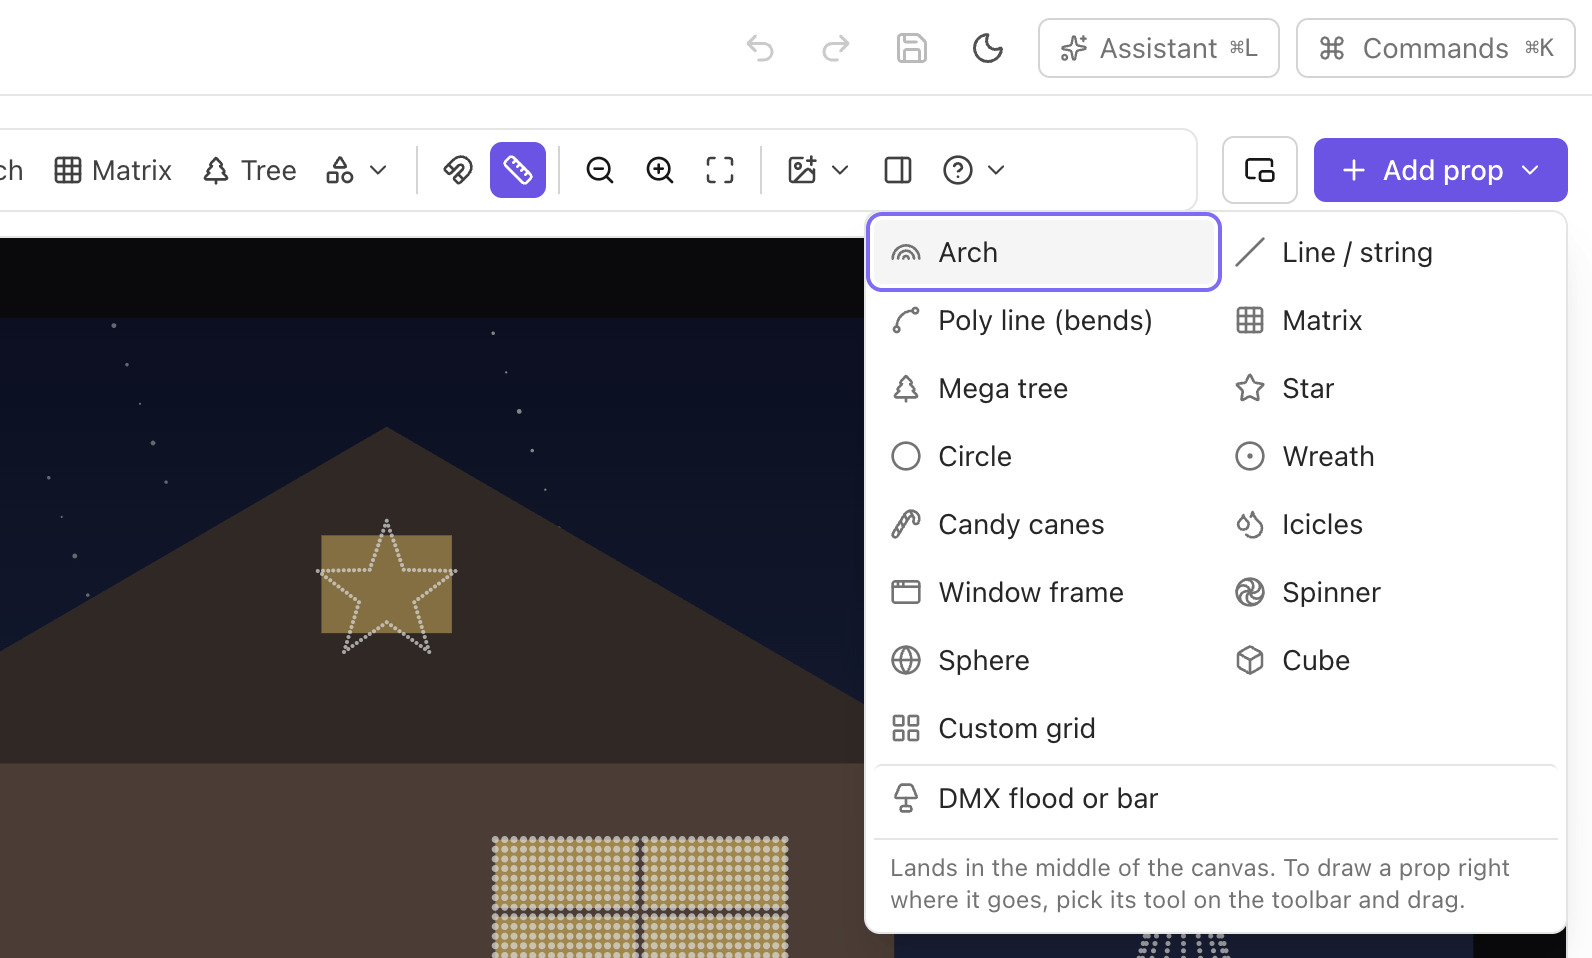
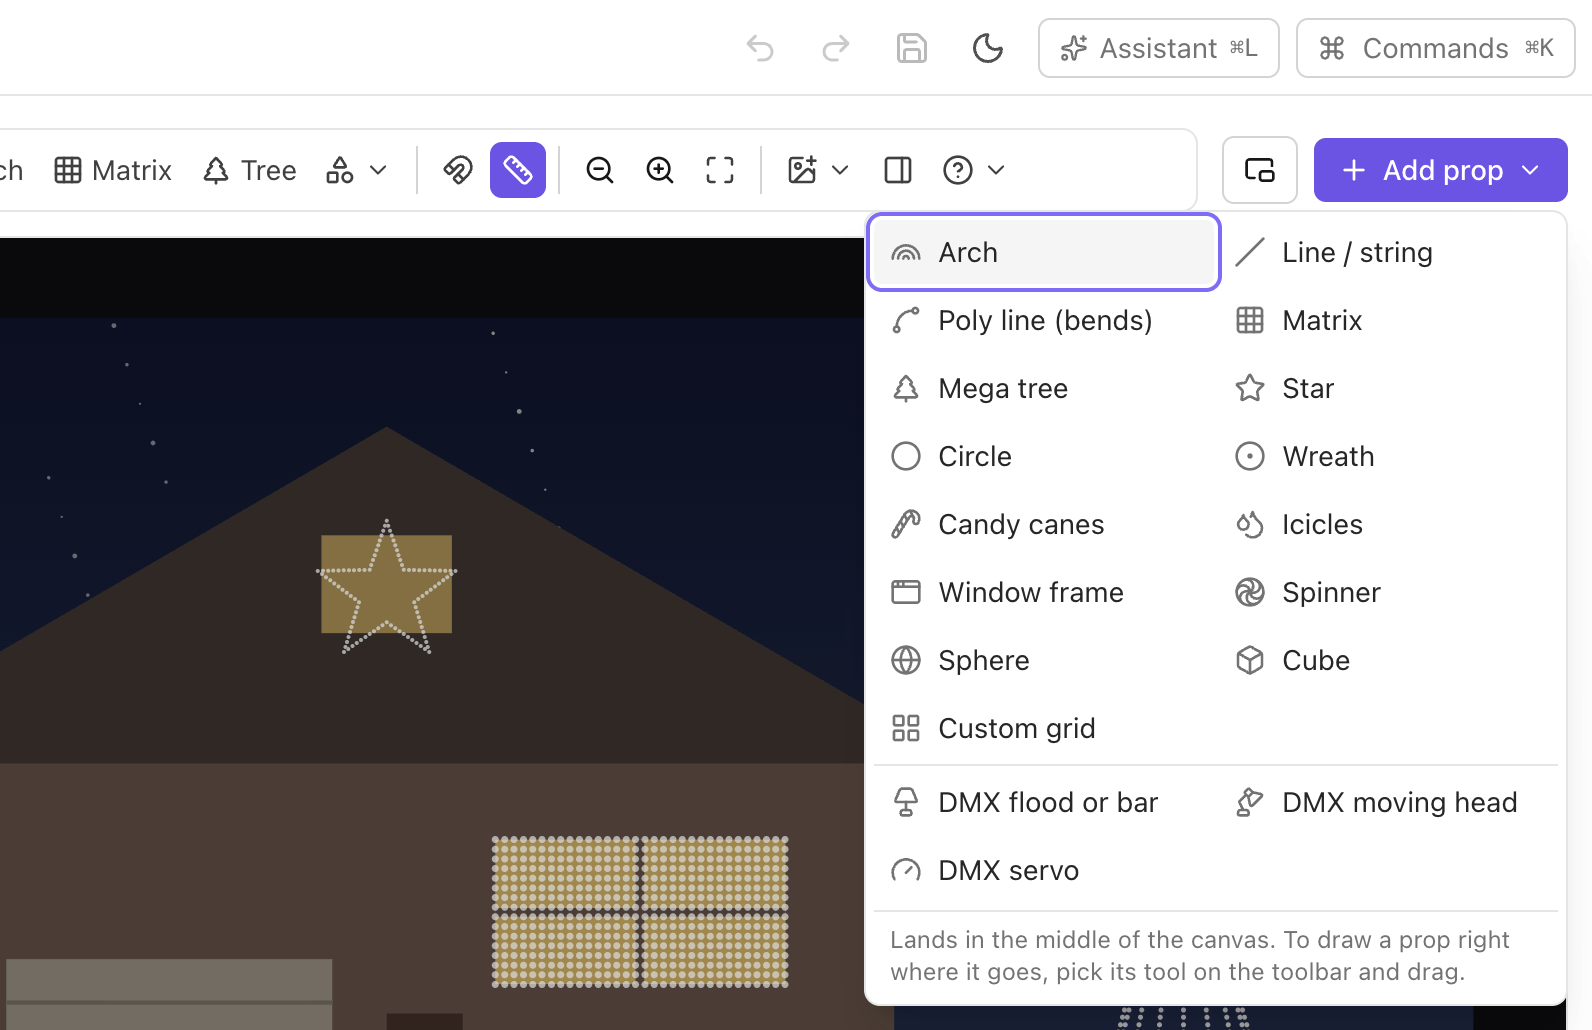
docs: moving heads and servos, from Layout to Test, previews and import
The DMX guide covers adding and setting up a moving head and servos,
pointing a head with the DMX effect, the beams and arms in the
previews, Test's pan and tilt and Home, what an xLights show's heads,
servos and skulls become, and that stopping never swings a head. The
threat model says what black keeps and the new limits; the Assistant's
DMX guide knows the effect points heads. New screenshots of each, and
the Add prop menu again with its two new kinds.

diff --git a/docs/dmx.md b/docs/dmx.md
@@ -1,14 +1,16 @@
-# DMX floods, pars, and bars
+# DMX floods, pars, bars, moving heads, and servos
 
 PixelFlow drives DMX fixtures alongside your pixels: RGB, RGBW, RGBA and RGBWA floods and pars,
-usually with a master dimmer and often a strobe, and bars of several separately colored cells.
-You color them with the same effects as any prop, and PixelFlow turns that color into the
-fixture's channels.
+usually with a master dimmer and often a strobe, bars of several separately colored cells,
+moving heads that pan and tilt, and servos. You color them with the same effects as any prop, and
+PixelFlow turns that color into the fixture's channels; the DMX effect points a head or turns a
+servo.
 
 > **Safety first.** A DMX universe can drive things that flash or move: a strobe channel is a real
-> strobe, a macro channel can start a light show of its own, and the same universe can carry a
-> moving head or a fog machine. Before you send anything, know what is on each address of the
-> universe, and read each fixture's manual for what its channels do. Keep strobes short.
+> strobe, a macro channel can start a light show of its own, a moving head swings round, and the
+> same universe can carry a fog machine. Before you send anything, know what is on each address of
+> the universe, read each fixture's manual for what its channels do, and keep people and things
+> out of a head's reach. Keep strobes short.
 
 ## Adding a fixture
 
@@ -16,7 +18,7 @@ fixture's channels.
    canvas; drag it to where the light is (a flood on the lawn washing the house front, a par at
    the foot of a tree).
 
-   ![The Add prop menu open, with DMX flood or bar at the foot of it, under the shapes.](images/layout-add-prop.png)
+   ![The Add prop menu open, with DMX flood or bar, DMX moving head, and DMX servo at the foot of it, under the shapes.](images/layout-add-prop.png)
 2. In its properties, under **DMX fixture**:
    - **Channels**: pick the layout from the fixture's manual. The library covers the common ones,
      named by their channels: 3 channels (red, green, blue), 4 (dimmer, red, green, blue), 4 (red,
@@ -25,10 +27,11 @@ fixture's channels.
    - **Start address**: the address set on the fixture (its DIP switches or menu), 1 to 512.
    - **Cells**, for a bar: how many separately colored sections it has.
    - **Each channel**: for a fixture the library doesn't have, set each channel's name and what it
-     does: dimmer, red, green, blue, white, amber, UV, strobe, mode (a value held), and the
-     moving-head roles (pan, tilt, their fine channels, color wheel, gobo), which hold their value
-     for now. A channel that isn't a color holds the value you give it, unless a DMX effect sets
-     it: put the mode channel at the value the manual gives for "DMX control".
+     does: dimmer, red, green, blue, white, amber, cyan, magenta, yellow, UV, strobe, mode (a
+     value held), and the moving-head and servo roles (pan, tilt, servo, their fine channels,
+     speed, color wheel, gobo; see [Moving heads](#moving-heads) and [Servos](#servos)). A channel
+     that isn't a color holds the value you give it, unless a DMX effect sets it: put the mode
+     channel at the value the manual gives for "DMX control".
 
 Several fixtures share one universe: give each its own start address, after the last channel of
 the one before. The Wiring screen warns when two overlap.
@@ -47,10 +50,80 @@ the one before. The Wiring screen warns when two overlap.
   goes to the white LEDs, which make a whiter white.
 - **Amber** stands for orange (255, 128, 0): after white, as much of the color as is orange goes
   to amber.
-- **UV, strobe and mode** channels hold their value.
+- **Cyan, magenta and yellow**, on a fixture that mixes color by taking it out of a white lamp,
+  are what the color leaves out: cyan is 255 less the red, and so on.
+- **A color wheel** with its colors listed turns to the one nearest the color drawn (the dimmer
+  carries the brightness). Where nothing is drawn, it stays where it is. Without its colors
+  listed, it holds its value like a mode channel.
+- **UV, strobe, mode, speed and gobo** channels hold their value.
 
-The previews show the color the channels make, as a soft wash around the fixture: the same
-wash, from the same numbers, in the 2D previews, the 3D view and an exported video.
+The previews show the color the channels make, as a soft wash around a flood: the same wash,
+from the same numbers, in the 2D previews, the 3D view and an exported video. A moving head shows
+a beam instead (see below).
+
+## Moving heads
+
+A moving head is a fixture with a pan channel (it turns round) and a tilt channel (it leans), each
+with a fine channel when it is a 16-bit head, and its light: red, green, blue and white, a color
+wheel, or cyan, magenta and yellow, usually with a dimmer and a shutter.
+
+1. On **Layout**, choose **Add prop ▾ → DMX moving head**: a common 16-bit head with pan, pan
+   fine, tilt, tilt fine, speed, dimmer, strobe, red, green, blue and white. Drag it to where it
+   stands.
+2. Under **DMX moving head**, pick its **Channels** from the library (16-bit and 8-bit heads, and
+   a spot with a color wheel and a gobo), or set **Each channel** from its manual, and its
+   **Start address**.
+3. Open **Pan and tilt** and set how it moves, from its manual:
+   - **Turns**: how many degrees it pans (or tilts) as the channel goes from 0 to 255 (the manual's
+     "pan 540°, tilt 270°").
+   - **Home at**: where Home is, in degrees from the 0 end. Home is the head facing forward (toward
+     the street) and pointing straight up. It is the middle of the travel on most heads.
+   - **Limits**: how far it may turn each way from Home (left and right for pan, back and forward
+     for tilt), to keep it off a wall or out of the neighbors' windows.
+   - **Reversed**: it turns the other way as the value rises.
+   - **Hung upside down**: it hangs from its base (turned half round in the front plane). To point
+     it another way, turn the prop on Layout.
+   - **Beam width** (the fixture's beam angle) and **Beam drawn** (how far the previews draw it).
+
+![A moving head on the lawn on the Layout screen, selected. Its properties show DMX moving head: Channels, Start address 20, and Pan and tilt open: Pan and Tilt, each 16-bit, with Turns, Home at, two limits and Reversed; Hung upside down; Beam width 15 and Beam drawn 6.](images/dmx-moving-head.png)
+
+A head rests where its pan and tilt channels hold their values: a head made from the library
+rests at Home. Positions are always in degrees from Home, so they mean the same on any head,
+16-bit or 8-bit, standing or hung.
+
+A color wheel lists its colors under **Color wheel: its colors**: each color, and the value that
+turns the wheel to it, from the manual. With its colors listed, effects that draw color on the
+head turn the wheel.
+
+## Servos
+
+**Add prop ▾ → DMX servo** adds one 16-bit servo (two channels: its position, then fine). Pick
+**Servos, 1 channel each** for 8-bit ones, and set **Servos** to how many share the fixture: each
+is drawn as an arm at its own place. Under **Servos**, each one's settings are a head's: how far
+it turns, where Home is, its limits, and whether it is reversed. Servos make no light of their
+own.
+
+## Pointing a head with the DMX effect
+
+The DMX effect (below) points a head: set its pan and tilt channels, and its fine channels for a
+smooth move on a 16-bit head, and sweep them with curves. Its color comes from what is drawn on
+it, on a layer below, or from its dimmer and color channels set in the same effect. The previews
+draw the head's beam where it points, in its color; a servo's arm turns.
+
+![The Sequence screen with a DMX effect on the Lawn Spot moving head: 1 · Pan 156, 3 · Tilt 184, 6 · Dimmer 255 and 10 · Blue 255. The preview above the timeline shows a blue beam rising from the head to the right.](images/dmx-head-effect.png)
+
+## In the previews
+
+- **A moving head** shows a beam from where it stands, where its pan and tilt point it: in its
+  color, widening to its beam angle and fading toward its end. Pointing straight at you, it is a
+  pool of light round the head. When nothing plays, a faint beam shows where it rests.
+- **A servo** shows an arm that turns with it, up at Home.
+- The 2D previews and an exported video draw them alike, from the same numbers; the 3D view draws
+  the beam as a cone, which the house model hides where it stands in front of it.
+
+![The same moment in the 3D view: a blue cone rising from the head, out from the house.](images/dmx-head-3d.png)
+
+The previews don't show a shutter or a strobe: a head whose shutter is closed is still drawn lit.
 
 ## The DMX effect
 
@@ -98,10 +171,28 @@ with null channels before it if there's a gap. It takes its channels where it fa
 (never split between two universes), and the Wiring screen warns when that isn't the start
 address set on the fixture.
 
-An xLights show's DMX floods (`DmxGeneral`, `DmxFloodlight`, `DmxFloodArea`) import as fixtures,
-with their color channels and their shutter, wired on their controller at the channels xLights
-gives them, beside its pixels. Moving heads and servos import as rows of channel dots, not wired:
-PixelFlow doesn't drive them yet.
+## From xLights
+
+An xLights show's DMX fixtures import wired on their controller at the channels xLights gives
+them, beside its pixels. The import report says how each kind comes across:
+
+- **Floods** (`DmxGeneral`, `DmxFloodlight`, `DmxFloodArea`) become fixtures with their color
+  channels and their shutter, held open.
+- **Moving heads** (`DmxMovingHeadAdv`, `DmxMovingHead`, `DmxMovingHead3D`): "Matches". They
+  become moving heads with their pan and tilt (and fine channels), how far each turns, where
+  Home is, their limits and whether each is reversed, their colors (red, green, blue and white, a
+  color wheel with its colors, or cyan, magenta and yellow), dimmer, shutter and gobo channels,
+  and their beam width. Their pan and tilt hold 0, as xLights sends a channel nothing sets.
+- **Servos** (`DmxServo`, `DmxServo3d`): "Matches". Each servo keeps its channels (16-bit or 8-bit)
+  and its limits, with Home between them, and is drawn as an arm.
+- "Close", for a head that hangs upside down (PixelFlow turns it half round; it sends what xLights
+  sends, but may draw the beam another way), a color wheel whose colors the file doesn't list (the
+  beam is drawn white), or a head whose file doesn't say which channels are its pan and tilt.
+- "No equivalent": skulls and other DMX models stay rows of channel dots, not wired.
+
+A sequence's DMX effects come across as DMX effects, so they point the heads as in xLights.
+xLights' Moving Head and Servo effects have no PixelFlow effect yet: the report lists them as left
+out.
 
 ## Testing
 
@@ -111,6 +202,17 @@ color, like a pixel. The same rules apply as for every test, over the network or
 sent (and no USB interface is opened) until you press Start, and Stop sends black.
 
 ![The Test screen with Prop: Lawn Flood as the Target and DMX channels by hand as the Pattern: it sends to Lawn DMX, universe 0, channels 1 to 7, and has a slider for each channel (Dimmer, Red, Green, Blue, White, Strobe, Mode), with a warning to check in the fixture's manual what each channel does.](images/dmx-test-channels.png)
+
+On a moving head, **Pan and tilt** above the channels moves it in degrees from Home, each within
+its limits, and **Home** sends it back there; servos get a slider each. They set the pan and tilt
+channels and their fine channels for you.
+
+![The Test screen with Prop: Lawn Spot as the Target: Pan and tilt, with Pan at 90° and Tilt at 45° and a Home button, above the channels, where Pan and Pan fine show 170 and 170.](images/dmx-test-head.png)
+
+**Stopping never swings a head.** Black (Stop, the end of playback, or a controller no longer sent
+to) puts out every light, but leaves the channels that move a head or a servo where they were, so
+it stays pointing where it was. This holds for a sequence played straight through from its
+`.fseq` too.
 
 ## USB DMX interfaces
 

diff --git a/docs/security/threat-model.md b/docs/security/threat-model.md
@@ -511,12 +511,22 @@ DMX adds two output paths and a new kind of risk.
 - **What the data can do.** A DMX channel is not a light level: it can be a strobe rate, a macro
   that starts a fixture's own program, a moving head's position, or a fog machine. A show from
   someone else could hold mode or strobe values (held channel values and DMX effects) that make a
-  fixture strobe or move. The safeguards are the existing ones (nothing is sent until the user
-  starts a test or playback; Stop sends black), the Test screen's warning by its channel sliders,
-  and the user page (`docs/dmx.md`), which says to know what is on each address. Brightness and
-  gamma on a DMX controller's port are not applied (they would turn one mode into another).
+  fixture strobe or move, and a moving head's or servo's channels point it anywhere its motors
+  reach. The safeguards are the existing ones (nothing is sent until the user starts a test or
+  playback, Send or Play), the Test screen's warning by its channel sliders, and the user page
+  (`docs/dmx.md`), which says to know what is on each address and to keep clear of a head's
+  reach. Black (Stop, the end of playback, a retired controller, rendered and `.fseq` output alike)
+  zeroes every channel except a fixture's pan, tilt and servo channels and their fine channels,
+  which keep their last values (`ControllerPlan::holds` in `crates/pf-output/src/plan.rs`), so a
+  stop never swings a machine. A motor's limits in the show clamp positions PixelFlow works out in
+  degrees (the Test screen's sliders); a DMX effect's raw values are sent as they are. Brightness
+  and gamma on a DMX controller's port are not applied (they would turn one mode into another).
 - **Limits.** A fixture has at most 512 channels and names of at most 40 characters, checked when
-  a show is opened; a DMX effect sets channels 1 to 512 only.
+  a show is opened; a motor turns at most 1080° with Home within its travel and limits either side
+  of it, a wheel lists at most 64 slots, and a beam is 1° to 120° wide and 0.5 to 100 long, and a
+  fixture that breaks one is reported and takes no channels. A DMX effect sets channels 1 to 512
+  only. The preview's motion record (sent after the
+  positions as JSON) is checked for its length before it is read.
 
 **Listening:** only during a scan: UDP 32320 on all interfaces for three seconds, and the mDNS
 library's sockets on 5353. No TCP listener.

diff --git a/README.md b/README.md
@@ -92,7 +92,7 @@ To look around without any hardware, choose **Try the demo show** on the welcome
 - [Real-hardware acceptance checklist](docs/hardware-acceptance.md): a checklist to fill in against real controllers.
 - [xLights import fidelity](docs/fidelity.md): how an imported sequence looks next to xLights, and how that is measured.
 - [Shaders](docs/shaders.md): the Shader effect, shader files, where they live, what runs, and its limits.
-- [DMX floods, pars, and bars](docs/dmx.md): DMX fixtures, addressing, sACN, Art-Net and USB DMX, and safety.
+- [DMX floods, pars, bars, moving heads, and servos](docs/dmx.md): DMX fixtures, addressing, sACN, Art-Net and USB DMX, and safety.
 - [Scale benchmark](docs/benchmarks.md): how large a show the engine can run.
 - [Your data: what stays on your computer](docs/privacy-and-data-flow.md): what PixelFlow sends, and when.
 - [Releasing](docs/releasing.md): building the macOS and Windows installers, signing, installing a test build, and where the app keeps its data.

diff --git a/docs/first-show.md b/docs/first-show.md
@@ -219,7 +219,7 @@ your show are marked **In show**.
    string**, **Matrix**, or **Mega tree**. It lands in the middle of the canvas. Or pick a tool on
    the toolbar and drag on the canvas to draw the prop where it belongs.
 
-   ![The Add prop menu open below the Add prop button: Arch, Line / string, Poly line (bends), Matrix, Mega tree, Star, Circle, Wreath, Candy canes, Icicles, Window frame, Spinner, Sphere, Cube, Custom grid, and DMX flood or bar.](images/layout-add-prop.png)
+   ![The Add prop menu open below the Add prop button: Arch, Line / string, Poly line (bends), Matrix, Mega tree, Star, Circle, Wreath, Candy canes, Icicles, Window frame, Spinner, Sphere, Cube, Custom grid, then DMX flood or bar, DMX moving head, and DMX servo.](images/layout-add-prop.png)
 
 3. Select a prop to see its **Properties** panel. Set its pixel count, name, and position there.
 4. **Photo behind the props:** choose **Photo** on the toolbar (the picture button), then

diff --git a/crates/pf-ai/guides/effects/dmx.md b/crates/pf-ai/guides/effects/dmx.md
@@ -8,6 +8,7 @@ No color of its own. On a DMX fixture (a flood, a par, a bar of several cells) i
 
 - On a single flood or par: the strobe opened, a mode or macro picked, the dimmer held or swelled. Setting its dimmer and color channels lights it in that color on its own.
 - On a bar of cells it sets the bar's shared channels (its dimmer, its strobe); the cells' colors still come from what is drawn on them.
+- On a moving head it points the head: its pan and tilt channels (and their fine channels on a 16-bit head), swept with curves; its color still comes from what is drawn on it. On a servo it sets the servo's position. Move heads slowly and only where the show's owner has set them up to point.
 - On the whole house, or any group, it sets channel n of every fixture in the group, so it suits a group of floods of one kind; the props that aren't fixtures ignore it.
 - On a string, an arch, a matrix, or a tree it does nothing: they have no DMX channels.
 
